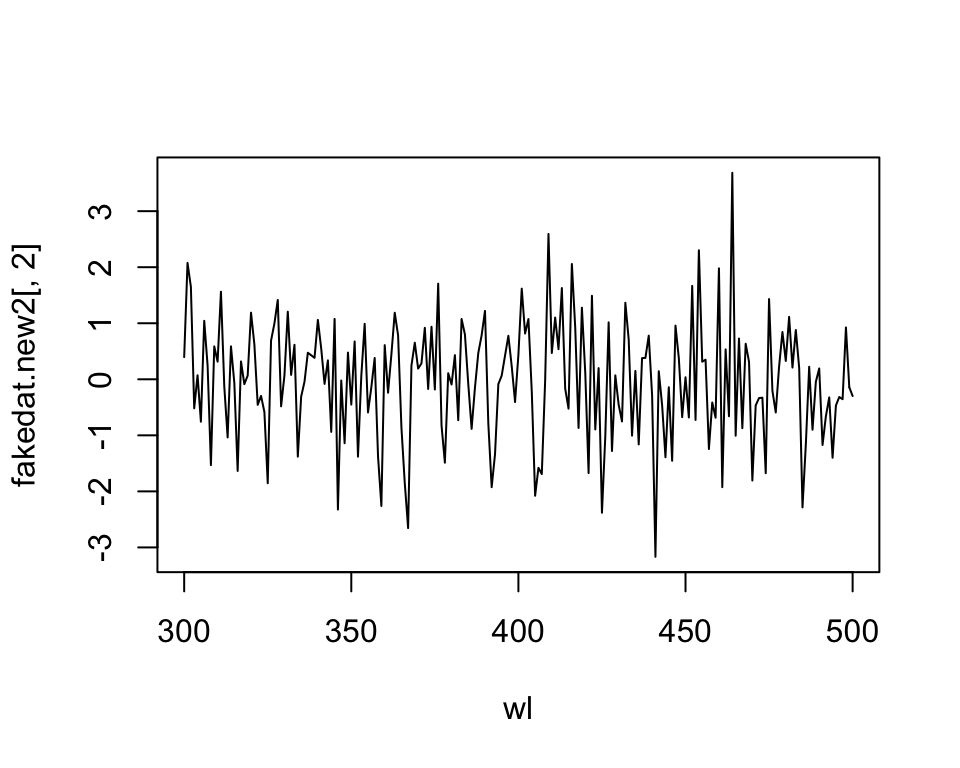
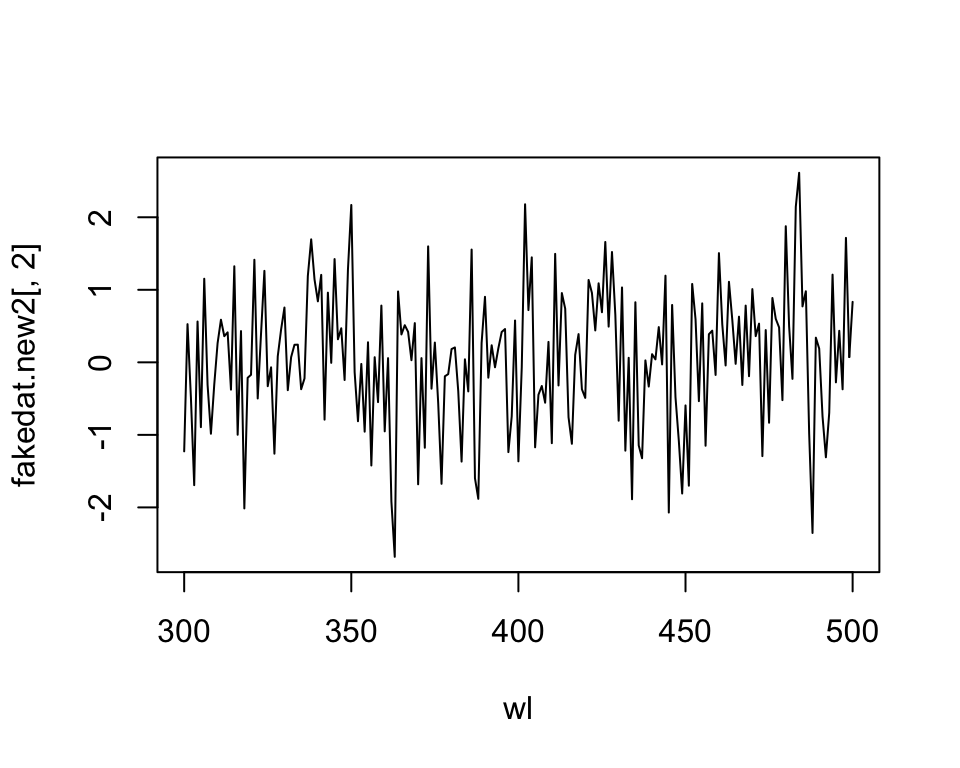
webpage

diff --git a/docs/articles/pavo.html b/docs/articles/pavo.html
@@ -59,7 +59,7 @@
       <h1>pavo</h1>
                         <h4 class="author">Rafael Maia, Thomas White, Pierre-Paul Bitton, Chad Eliason</h4>
             
-            <h4 class="date">2017-10-09</h4>
+            <h4 class="date">2017-11-10</h4>
           </div>
 
     
@@ -125,12 +125,12 @@ fakedat &lt;-<span class="st"> </span><span class="kw">data.frame</span>(<span c
                       <span class="dt">wavelength =</span> <span class="kw">seq</span>(<span class="dv">300</span>, <span class="dv">700</span>, <span class="dt">by =</span> .<span class="dv">5</span>))
 <span class="kw">head</span>(fakedat)</code></pre></div>
 <pre><code>##        refl1      refl2 wavelength
-## 1  0.3964994 -1.6079186      300.0
-## 2 -0.1131019 -0.3828344      300.5
-## 3  2.0766931 -0.7215139      301.0
-## 4 -0.4259357  1.6587341      301.5
-## 5  1.6519413  0.4478869      302.0
-## 6  0.0918889 -2.4337307      302.5</code></pre>
+## 1 -1.2272772 -0.6635434      300.0
+## 2 -0.5275246 -0.8168936      300.5
+## 3  0.5262006  0.2187456      301.0
+## 4 -0.9961822  0.3774593      301.5
+## 5 -0.4730275 -1.5633029      302.0
+## 6 -0.5391414 -1.1598770      302.5</code></pre>
 <div class="sourceCode"><pre class="sourceCode r"><code class="sourceCode r"><span class="kw"><a href="../reference/as.rspec.html">is.rspec</a></span>(fakedat)</code></pre></div>
 <pre><code>## [1] FALSE</code></pre>
 <div class="sourceCode"><pre class="sourceCode r"><code class="sourceCode r">fakedat.new &lt;-<span class="st"> </span><span class="kw"><a href="../reference/as.rspec.html">as.rspec</a></span>(fakedat)</code></pre></div>
@@ -138,22 +138,22 @@ fakedat &lt;-<span class="st"> </span><span class="kw">data.frame</span>(<span c
 <div class="sourceCode"><pre class="sourceCode r"><code class="sourceCode r"><span class="kw"><a href="../reference/as.rspec.html">is.rspec</a></span>(fakedat.new)</code></pre></div>
 <pre><code>## [1] TRUE</code></pre>
 <div class="sourceCode"><pre class="sourceCode r"><code class="sourceCode r"><span class="kw">head</span>(fakedat.new)</code></pre></div>
-<pre><code>##    wl      refl1       refl2
-## 1 300  0.3964994 -1.60791862
-## 2 301  2.0766931 -0.72151390
-## 3 302  1.6519413  0.44788686
-## 4 303 -0.5174077 -0.47441392
-## 5 304  0.0716316  0.01036088
-## 6 305 -0.7567025  1.38508944</code></pre>
+<pre><code>##    wl      refl1      refl2
+## 1 300 -1.2272772 -0.6635434
+## 2 301  0.5262006  0.2187456
+## 3 302 -0.4730275 -1.5633029
+## 4 303 -1.6931685  2.0750530
+## 5 304  0.5625714 -1.1795108
+## 6 305 -0.8933720 -0.5481358</code></pre>
 <p>As can be seen, <code>as.rspec</code> renames the column containing wavelengths, sets it as the first column, interpolates the data in 1-nm bins and converts the data to an <code>rspec</code> object. Note that the same output is returned with specifying <code>whichwl = 3</code>:</p>
 <div class="sourceCode"><pre class="sourceCode r"><code class="sourceCode r"><span class="kw">head</span>(<span class="kw"><a href="../reference/as.rspec.html">as.rspec</a></span>(fakedat, <span class="dt">whichwl =</span> <span class="dv">3</span>))</code></pre></div>
-<pre><code>##    wl      refl1       refl2
-## 1 300  0.3964994 -1.60791862
-## 2 301  2.0766931 -0.72151390
-## 3 302  1.6519413  0.44788686
-## 4 303 -0.5174077 -0.47441392
-## 5 304  0.0716316  0.01036088
-## 6 305 -0.7567025  1.38508944</code></pre>
+<pre><code>##    wl      refl1      refl2
+## 1 300 -1.2272772 -0.6635434
+## 2 301  0.5262006  0.2187456
+## 3 302 -0.4730275 -1.5633029
+## 4 303 -1.6931685  2.0750530
+## 5 304  0.5625714 -1.1795108
+## 6 305 -0.8933720 -0.5481358</code></pre>
 <p>Finally, the <code>lim</code> argument allows you to specify the range of wavelengths contained in the input dataset. This is useful either in the case that the dataset doesn’t contain this information (and hence you cannot specify the column with <code>whichwl</code> or automatically find the column with <code>as.rspec</code>). Additionally, it may be useful to focus on a subset of wavelength. In our example, the wavelengths ranged from 300 to 700 nm, however you could also specify a restricted range of wavelengths with <code>lim</code>:</p>
 <div class="sourceCode"><pre class="sourceCode r"><code class="sourceCode r">fakedat.new2 &lt;-<span class="st"> </span><span class="kw"><a href="../reference/as.rspec.html">as.rspec</a></span>(fakedat, <span class="dt">lim =</span> <span class="kw">c</span>(<span class="dv">300</span>, <span class="dv">500</span>))</code></pre></div>
 <pre><code>## wavelengths found in column 3</code></pre>
@@ -306,7 +306,7 @@ spec.bin &lt;-<span class="st"> </span><span class="kw">t</span>(spec.bin)  <spa
 spec.bin &lt;-<span class="st"> </span>spec.bin[<span class="op">-</span><span class="dv">1</span>, ]  <span class="co"># remove 'wl' column</span>
 pca1 &lt;-<span class="st"> </span><span class="kw">prcomp</span>(spec.bin, <span class="dt">scale =</span> <span class="ot">TRUE</span>)</code></pre></div>
 <div class="sourceCode"><pre class="sourceCode r"><code class="sourceCode r"><span class="kw">summary</span>(pca1)</code></pre></div>
-<pre><code>## Importance of components%s:
+<pre><code>## Importance of components:
 ##                           PC1    PC2    PC3     PC4     PC5       PC6
 ## Standard deviation     3.5846 2.0307 1.5612 0.67444 0.36661 4.782e-16
 ## Proportion of Variance 0.6425 0.2062 0.1219 0.02274 0.00672 0.000e+00
@@ -656,21 +656,22 @@ testspecs.fix2 &lt;-<span class="st"> </span><span class="kw"><a href="../refere
 <code>relative</code>: If <code>TRUE</code>, it will make the cone stimulations relative to their sum. This is appropriate for colorspace models such as the avian tetrahedral colorspace (Goldsmith 1990, Stoddard 2008; For the photon catch and neural noise model, it is important to set} <code>relative = FALSE</code>).</li>
 </ul>
 <p>All visual models begin with the estimation of receptor quantum catches. The requirements of models may differ significantly of course, so be sure to consult the function documentation and original publications. For this example, we will use the average reflectance of the different species to calculate the raw stimulation of retinal cones, considering the avian average UV visual system, a standard daylight illumination, and an idealized background.</p>
-<div class="sourceCode"><pre class="sourceCode r"><code class="sourceCode r">vismod1 &lt;-<span class="st"> </span><span class="kw"><a href="../reference/vismodel.html">vismodel</a></span>(sppspec, <span class="dt">visual =</span> <span class="st">"avg.uv"</span>, <span class="dt">illum =</span> <span class="st">'D65'</span>, <span class="dt">relative =</span> <span class="ot">FALSE</span>)
+<div class="sourceCode"><pre class="sourceCode r"><code class="sourceCode r">vismod1 &lt;-<span class="st"> </span><span class="kw"><a href="../reference/vismodel.html">vismodel</a></span>(sppspec, <span class="dt">visual =</span> <span class="st">"avg.uv"</span>, <span class="dt">achromatic =</span> <span class="st">'bt.dc'</span>, 
+                    <span class="dt">illum =</span> <span class="st">'D65'</span>, <span class="dt">relative =</span> <span class="ot">FALSE</span>)
 vismod1</code></pre></div>
-<pre><code>##               u      s      m      l
-## cardinal 0.0341 0.0649 0.1297 0.4187
-## jacana   0.0199 0.1484 0.2923 0.3313
-## oriole   0.0139 0.0375 0.2649 0.4807
-## parakeet 0.0186 0.0611 0.2542 0.2171
-## robin    0.0109 0.0622 0.1413 0.2420
-## tanager  0.0418 0.1572 0.2747 0.2284</code></pre>
+<pre><code>##               u      s      m      l    lum
+## cardinal 0.0341 0.0649 0.1297 0.4187 0.1939
+## jacana   0.0199 0.1484 0.2923 0.3313 0.2709
+## oriole   0.0139 0.0375 0.2649 0.4807 0.2755
+## parakeet 0.0186 0.0611 0.2542 0.2171 0.2042
+## robin    0.0109 0.0622 0.1413 0.2420 0.1501
+## tanager  0.0418 0.1572 0.2747 0.2284 0.2346</code></pre>
 <p>Since there are multiple parameters that can be used to customize the output of <code>vismodel</code>, as detailed above, for convenience these can be returned by using <code>summary</code> in a <code>vismodel</code> object:</p>
 <div class="sourceCode"><pre class="sourceCode r"><code class="sourceCode r"><span class="kw">summary</span>(vismod1)</code></pre></div>
 <pre><code>## visual model options:
 ##  * Quantal catch: Qi 
 ##  * Visual system, chromatic: avg.uv 
-##  * Visual system, achromatic: none 
+##  * Visual system, achromatic: bt.dc 
 ##  * Illuminant: D65, scale = 1 (von Kries color correction not applied) 
 ##  * Background: ideal 
 ##  * Transmission: ideal 
@@ -681,7 +682,14 @@ vismod1</code></pre></div>
 ##  Median :0.01925   Median :0.06353   Median :0.2595   Median :0.2866  
 ##  Mean   :0.02321   Mean   :0.08854   Mean   :0.2262   Mean   :0.3197  
 ##  3rd Qu.:0.03059   3rd Qu.:0.12753   3rd Qu.:0.2722   3rd Qu.:0.3969  
-##  Max.   :0.04177   Max.   :0.15716   Max.   :0.2923   Max.   :0.4807</code></pre>
+##  Max.   :0.04177   Max.   :0.15716   Max.   :0.2923   Max.   :0.4807  
+##       lum        
+##  Min.   :0.1501  
+##  1st Qu.:0.1965  
+##  Median :0.2194  
+##  Mean   :0.2215  
+##  3rd Qu.:0.2618  
+##  Max.   :0.2755</code></pre>
 <p>We can visualize what vismodel is doing when estimating quantum catches by comparing the reflectance spectra to the estimates they are generating:</p>
 <div class="sourceCode"><pre class="sourceCode r"><code class="sourceCode r"><span class="kw">par</span>(<span class="dt">mfrow =</span> <span class="kw">c</span>(<span class="dv">2</span>, <span class="dv">6</span>), <span class="dt">oma =</span> <span class="kw">c</span>(<span class="dv">3</span>, <span class="dv">3</span>, <span class="dv">0</span>, <span class="dv">0</span>))
 <span class="kw">layout</span>(<span class="kw">rbind</span>(<span class="kw">c</span>(<span class="dv">2</span>, <span class="dv">1</span>, <span class="dv">4</span>, <span class="dv">3</span>, <span class="dv">6</span>, <span class="dv">5</span>), <span class="kw">c</span>(<span class="dv">1</span>, <span class="dv">1</span>, <span class="dv">3</span>, <span class="dv">3</span>, <span class="dv">5</span>, <span class="dv">5</span>), <span class="kw">c</span>(<span class="dv">8</span>, <span class="dv">7</span>, <span class="dv">10</span>, <span class="dv">9</span>, <span class="dv">12</span>, <span class="dv">11</span>), <span class="kw">c</span>(<span class="dv">7</span>, <span class="dv">7</span>, <span class="dv">9</span>, <span class="dv">9</span>, <span class="dv">11</span>, <span class="dv">11</span>)))
@@ -744,23 +752,24 @@ w_3^2(\Delta f_1 - \Delta f_2)^2 }{ (w_1w_2)^2 + (w_1w_3)^2 + (w_2w_3)^2 }}\]</s
 <a href="#perceptual-distances-with-coldist" class="anchor"></a>Perceptual Distances with <code>coldist</code>
 </h4>
 <p><code>pavo</code> implements the noise-weighted color distance calculations in the function <code>coldist</code>, assuming that raw receptor quantum catches are provided (via <code>relative = FALSE</code> in <code><a href="../reference/vismodel.html">vismodel()</a></code>). For the achromatic contrast, <code>coldist</code> uses <code>n4</code> to calculate <span class="math inline">\(w\)</span> for the achromatic contrast. Note that even if <span class="math inline">\(Q_i\)</span> is chosen, values are still log-transformed. This option is available in case the user wants to specify a data frame of quantum catches that was not generated by <code>vismodel</code> as an input. In this case, the argument <code>qcatch</code> should be used to inform the function if <span class="math inline">\(Q_i\)</span> or <span class="math inline">\(f_i\)</span> values are being used (note that if the imput to <code>coldist</code> is an object generated using the <code>vismodel</code> function, this argument is ignored.) The type of noise to be calculated can be selected from the <code>coldist</code> argument <code>noise</code> (which accepts either <code>"neural"</code> or <code>"quantum"</code>).</p>
-<div class="sourceCode"><pre class="sourceCode r"><code class="sourceCode r"><span class="kw"><a href="../reference/coldist.html">coldist</a></span>(vismod1, <span class="dt">noise =</span> <span class="st">'neural'</span>, <span class="dt">n =</span> <span class="kw">c</span>(<span class="dv">1</span>, <span class="dv">2</span>, <span class="dv">2</span>, <span class="dv">4</span>), <span class="dt">weber =</span> <span class="fl">0.1</span>)</code></pre></div>
-<pre><code>##      patch1   patch2        dS
-## 1  cardinal   jacana  8.423965
-## 2  cardinal   oriole  7.905876
-## 3  cardinal parakeet  7.999730
-## 4  cardinal    robin  5.805562
-## 5  cardinal  tanager 10.100311
-## 6    jacana   oriole 10.151253
-## 7    jacana parakeet  4.231570
-## 8    jacana    robin  3.503769
-## 9    jacana  tanager  5.126266
-## 10   oriole parakeet  8.135793
-## 11   oriole    robin  7.220505
-## 12   oriole  tanager 13.608253
-## 13 parakeet    robin  4.606847
-## 14 parakeet  tanager  5.969760
-## 15    robin  tanager  7.688707</code></pre>
+<div class="sourceCode"><pre class="sourceCode r"><code class="sourceCode r"><span class="kw"><a href="../reference/coldist.html">coldist</a></span>(vismod1, <span class="dt">noise =</span> <span class="st">'neural'</span>, <span class="dt">achro =</span> <span class="ot">TRUE</span>, <span class="dt">n =</span> <span class="kw">c</span>(<span class="dv">1</span>, <span class="dv">2</span>, <span class="dv">2</span>, <span class="dv">4</span>), 
+        <span class="dt">weber =</span> <span class="fl">0.1</span>, <span class="dt">weber.achro=</span><span class="fl">0.1</span>)</code></pre></div>
+<pre><code>##      patch1   patch2        dS        dL
+## 1  cardinal   jacana  8.423965 3.3449627
+## 2  cardinal   oriole  7.905876 3.5110820
+## 3  cardinal parakeet  7.999730 0.5177495
+## 4  cardinal    robin  5.805562 2.5606167
+## 5  cardinal  tanager 10.100311 1.9068807
+## 6    jacana   oriole 10.151253 0.1661193
+## 7    jacana parakeet  4.231570 2.8272132
+## 8    jacana    robin  3.503769 5.9055794
+## 9    jacana  tanager  5.126266 1.4380820
+## 10   oriole parakeet  8.135793 2.9933325
+## 11   oriole    robin  7.220505 6.0716987
+## 12   oriole  tanager 13.608253 1.6042013
+## 13 parakeet    robin  4.606847 3.0783661
+## 14 parakeet  tanager  5.969760 1.3891312
+## 15    robin  tanager  7.688707 4.4674974</code></pre>
 <div class="sourceCode"><pre class="sourceCode r"><code class="sourceCode r"><span class="kw"><a href="../reference/coldist.html">coldist</a></span>(vismod.idi, <span class="dt">n =</span> <span class="kw">c</span>(<span class="dv">1</span>, <span class="dv">2</span>),  <span class="dt">weber =</span> <span class="fl">0.1</span>)</code></pre></div>
 <pre><code>##      patch1   patch2        dS
 ## 1  cardinal   jacana 2.0993283
@@ -778,7 +787,7 @@ w_3^2(\Delta f_1 - \Delta f_2)^2 }{ (w_1w_2)^2 + (w_1w_3)^2 + (w_2w_3)^2 }}\]</s
 ## 13 parakeet    robin 5.9812236
 ## 14 parakeet  tanager 1.2842244
 ## 15    robin  tanager 7.2654480</code></pre>
-<p>Where <code>dS</code> is the chromatic contrast (<span class="math inline">\(\Delta S\)</span>) and <code>dL</code> is the achromatic contrast (<span class="math inline">\(\Delta L\)</span>). As expected, values are really high under the avian color vision, since the colors of these species are quite different and because of the enhanced discriminatory ability with four compared to two cones.</p>
+<p>Where <code>dS</code> is the chromatic contrast (<span class="math inline">\(\Delta S\)</span>) and <code>dL</code> is the achromatic contrast (<span class="math inline">\(\Delta L\)</span>). Note that, by default, <code>achro = FALSE</code>, so <code>dL</code> isn’t included in the second result (this is to maintain consistency since, in the <code>vismodel</code> function, the <code>achromatic</code> argument defaults to <code>none</code>). As expected, values are really high under the avian color vision, since the colors of these species are quite different and because of the enhanced discriminatory ability with four compared to two cones.</p>
 <p><code>coldist</code> also has a <code>subset</code> argument, which is useful if only certain comparisons are of interest (for example, of color patches against a background, or only comparisons among a species or body patch). <code>subset</code> can be a vector of length one or two. If only one subsetting option is passed, all comparisons against the matching argument are returned (useful in the case of comparing to a background, for example). If two values are passed, comparisons will only be made between samples that match that rule (partial string matching and regular expressions are accepted). For example, compare:</p>
 <div class="sourceCode"><pre class="sourceCode r"><code class="sourceCode r"><span class="kw"><a href="../reference/coldist.html">coldist</a></span>(vismod1, <span class="dt">subset =</span> <span class="st">'cardinal'</span>)</code></pre></div>
 <p>to:</p>

diff --git a/docs/reference/jnd2xyz.html b/docs/reference/jnd2xyz.html
@@ -89,8 +89,9 @@
 perceptually-corrected (i.e. Euclidean distances = JND distances)</p>
     
 
-    <pre class="usage"><span class='fu'>jnd2xyz</span>(<span class='no'>coldistres</span>, <span class='kw'>rotate</span> <span class='kw'>=</span> <span class='fl'>TRUE</span>, <span class='kw'>center</span> <span class='kw'>=</span> <span class='fu'>c</span>(<span class='st'>"mean"</span>, <span class='st'>"achro"</span>),
-  <span class='kw'>ref1</span> <span class='kw'>=</span> <span class='st'>"l"</span>, <span class='kw'>ref2</span> <span class='kw'>=</span> <span class='st'>"u"</span>, <span class='kw'>axis1</span> <span class='kw'>=</span> <span class='fu'>c</span>(<span class='fl'>1</span>, <span class='fl'>1</span>, <span class='fl'>0</span>), <span class='kw'>axis2</span> <span class='kw'>=</span> <span class='fu'>c</span>(<span class='fl'>0</span>, <span class='fl'>0</span>, <span class='fl'>1</span>))</pre>
+    <pre class="usage"><span class='fu'>jnd2xyz</span>(<span class='no'>coldistres</span>, <span class='kw'>center</span> <span class='kw'>=</span> <span class='fl'>TRUE</span>, <span class='kw'>rotate</span> <span class='kw'>=</span> <span class='fl'>TRUE</span>, <span class='kw'>rotcenter</span> <span class='kw'>=</span> <span class='fu'>c</span>(<span class='st'>"mean"</span>,
+  <span class='st'>"achro"</span>), <span class='kw'>ref1</span> <span class='kw'>=</span> <span class='st'>"l"</span>, <span class='kw'>ref2</span> <span class='kw'>=</span> <span class='st'>"u"</span>, <span class='kw'>axis1</span> <span class='kw'>=</span> <span class='fu'>c</span>(<span class='fl'>1</span>, <span class='fl'>1</span>, <span class='fl'>0</span>), <span class='kw'>axis2</span> <span class='kw'>=</span> <span class='fu'>c</span>(<span class='fl'>0</span>, <span class='fl'>0</span>,
+  <span class='fl'>1</span>))</pre>
     
     <h2 class="hasAnchor" id="arguments"><a class="anchor" href="#arguments"></a> Arguments</h2>
     <table class="ref-arguments">
@@ -100,11 +101,16 @@ perceptually-corrected (i.e. Euclidean distances = JND distances)</p>
       <td><p>(required) the output from a <code>coldist</code> call.</p></td>
     </tr>
     <tr>
+      <th>center</th>
+      <td><p>logical indicating if the data should be centered on its centroid 
+(defaults to <code>TRUE</code>).</p></td>
+    </tr>
+    <tr>
       <th>rotate</th>
       <td><p>logical indicating if the data should be rotated (defaults to <code>TRUE</code>).</p></td>
     </tr>
     <tr>
-      <th>center</th>
+      <th>rotcenter</th>
       <td><p>should the vectors for rotation be centered in the achromatic
 center ("achro") or the data centroid ("mean", the default)?</p></td>
     </tr>

diff --git a/docs/reference/coldist.html b/docs/reference/coldist.html
@@ -157,12 +157,14 @@ categorical, and cie models).</p></td>
     </tr>
     <tr>
       <th>weber</th>
-      <td><p>The Weber fraction to be used. The noise-to-signal ratio <code>v</code> is unknown, 
+      <td><p>The Weber fraction to be used (often also referred to as receptor noise, 
+or <em>e</em>). The noise-to-signal ratio <code>v</code> is unknown, 
 and therefore must be calculated based on the empirically estimated Weber 
 fraction of one of the cone classes. <code>v</code> is then applied to estimate the 
 Weber fraction of the other cones. by default, the value of 0.1 is used 
 (the empirically estimated value for the
-LWS cone from <em>Leiothrix lutea</em>). Ignored for <code>colspace</code> objects
+LWS cone from <em>Leiothrix lutea</em>). See Olsson et al. 2017 for a review of 
+published values in the literature. Ignored for <code>colspace</code> objects
 if model is not a receptor noise model (i.e. hexagon, colour-opponent-coding, 
 categorical, segment, and cie models).</p></td>
     </tr>
@@ -228,6 +230,9 @@ argument directly, and not based on <code>v</code> and <code>n4</code> as before
  218, 184-193.</p>
 <p>Lind, O. (2016) Colour vision and background adaptation in a passerine 
  bird, the zebra finch (Taeniopygia guttata). Royal Society Open Science, 3, 160383.</p>
+<p>Olsson, P., Lind, O., &amp; Kelber, A. (2017) Chromatic and achromatic 
+ vision: parameter choice and limitations for reliable model predictions. 
+ Behavioral Ecology, doi: 10.1093/beheco/arx133</p>
     
 
     <h2 class="hasAnchor" id="examples"><a class="anchor" href="#examples"></a>Examples</h2>

diff --git a/docs/reference/index.html b/docs/reference/index.html
@@ -283,19 +283,19 @@
         </tr><tr>
           <!--  -->
           <td>
-            <p><code><a href="summary.colspace.html">summary.colspace</a></code> </p>
+            <p><code><a href="summary.colspace.html">summary</a></code> </p>
           </td>
           <td><p>Colorspace data summary</p></td>
         </tr><tr>
           <!--  -->
           <td>
-            <p><code><a href="summary.rspec.html">summary.rspec</a></code> </p>
+            <p><code><a href="summary.rspec.html">summary</a></code> </p>
           </td>
           <td><p>Colorimetric variables</p></td>
         </tr><tr>
           <!--  -->
           <td>
-            <p><code><a href="summary.vismodel.html">summary.vismodel</a></code> </p>
+            <p><code><a href="summary.vismodel.html">summary</a></code> </p>
           </td>
           <td><p>Visual model summary</p></td>
         </tr><tr>
